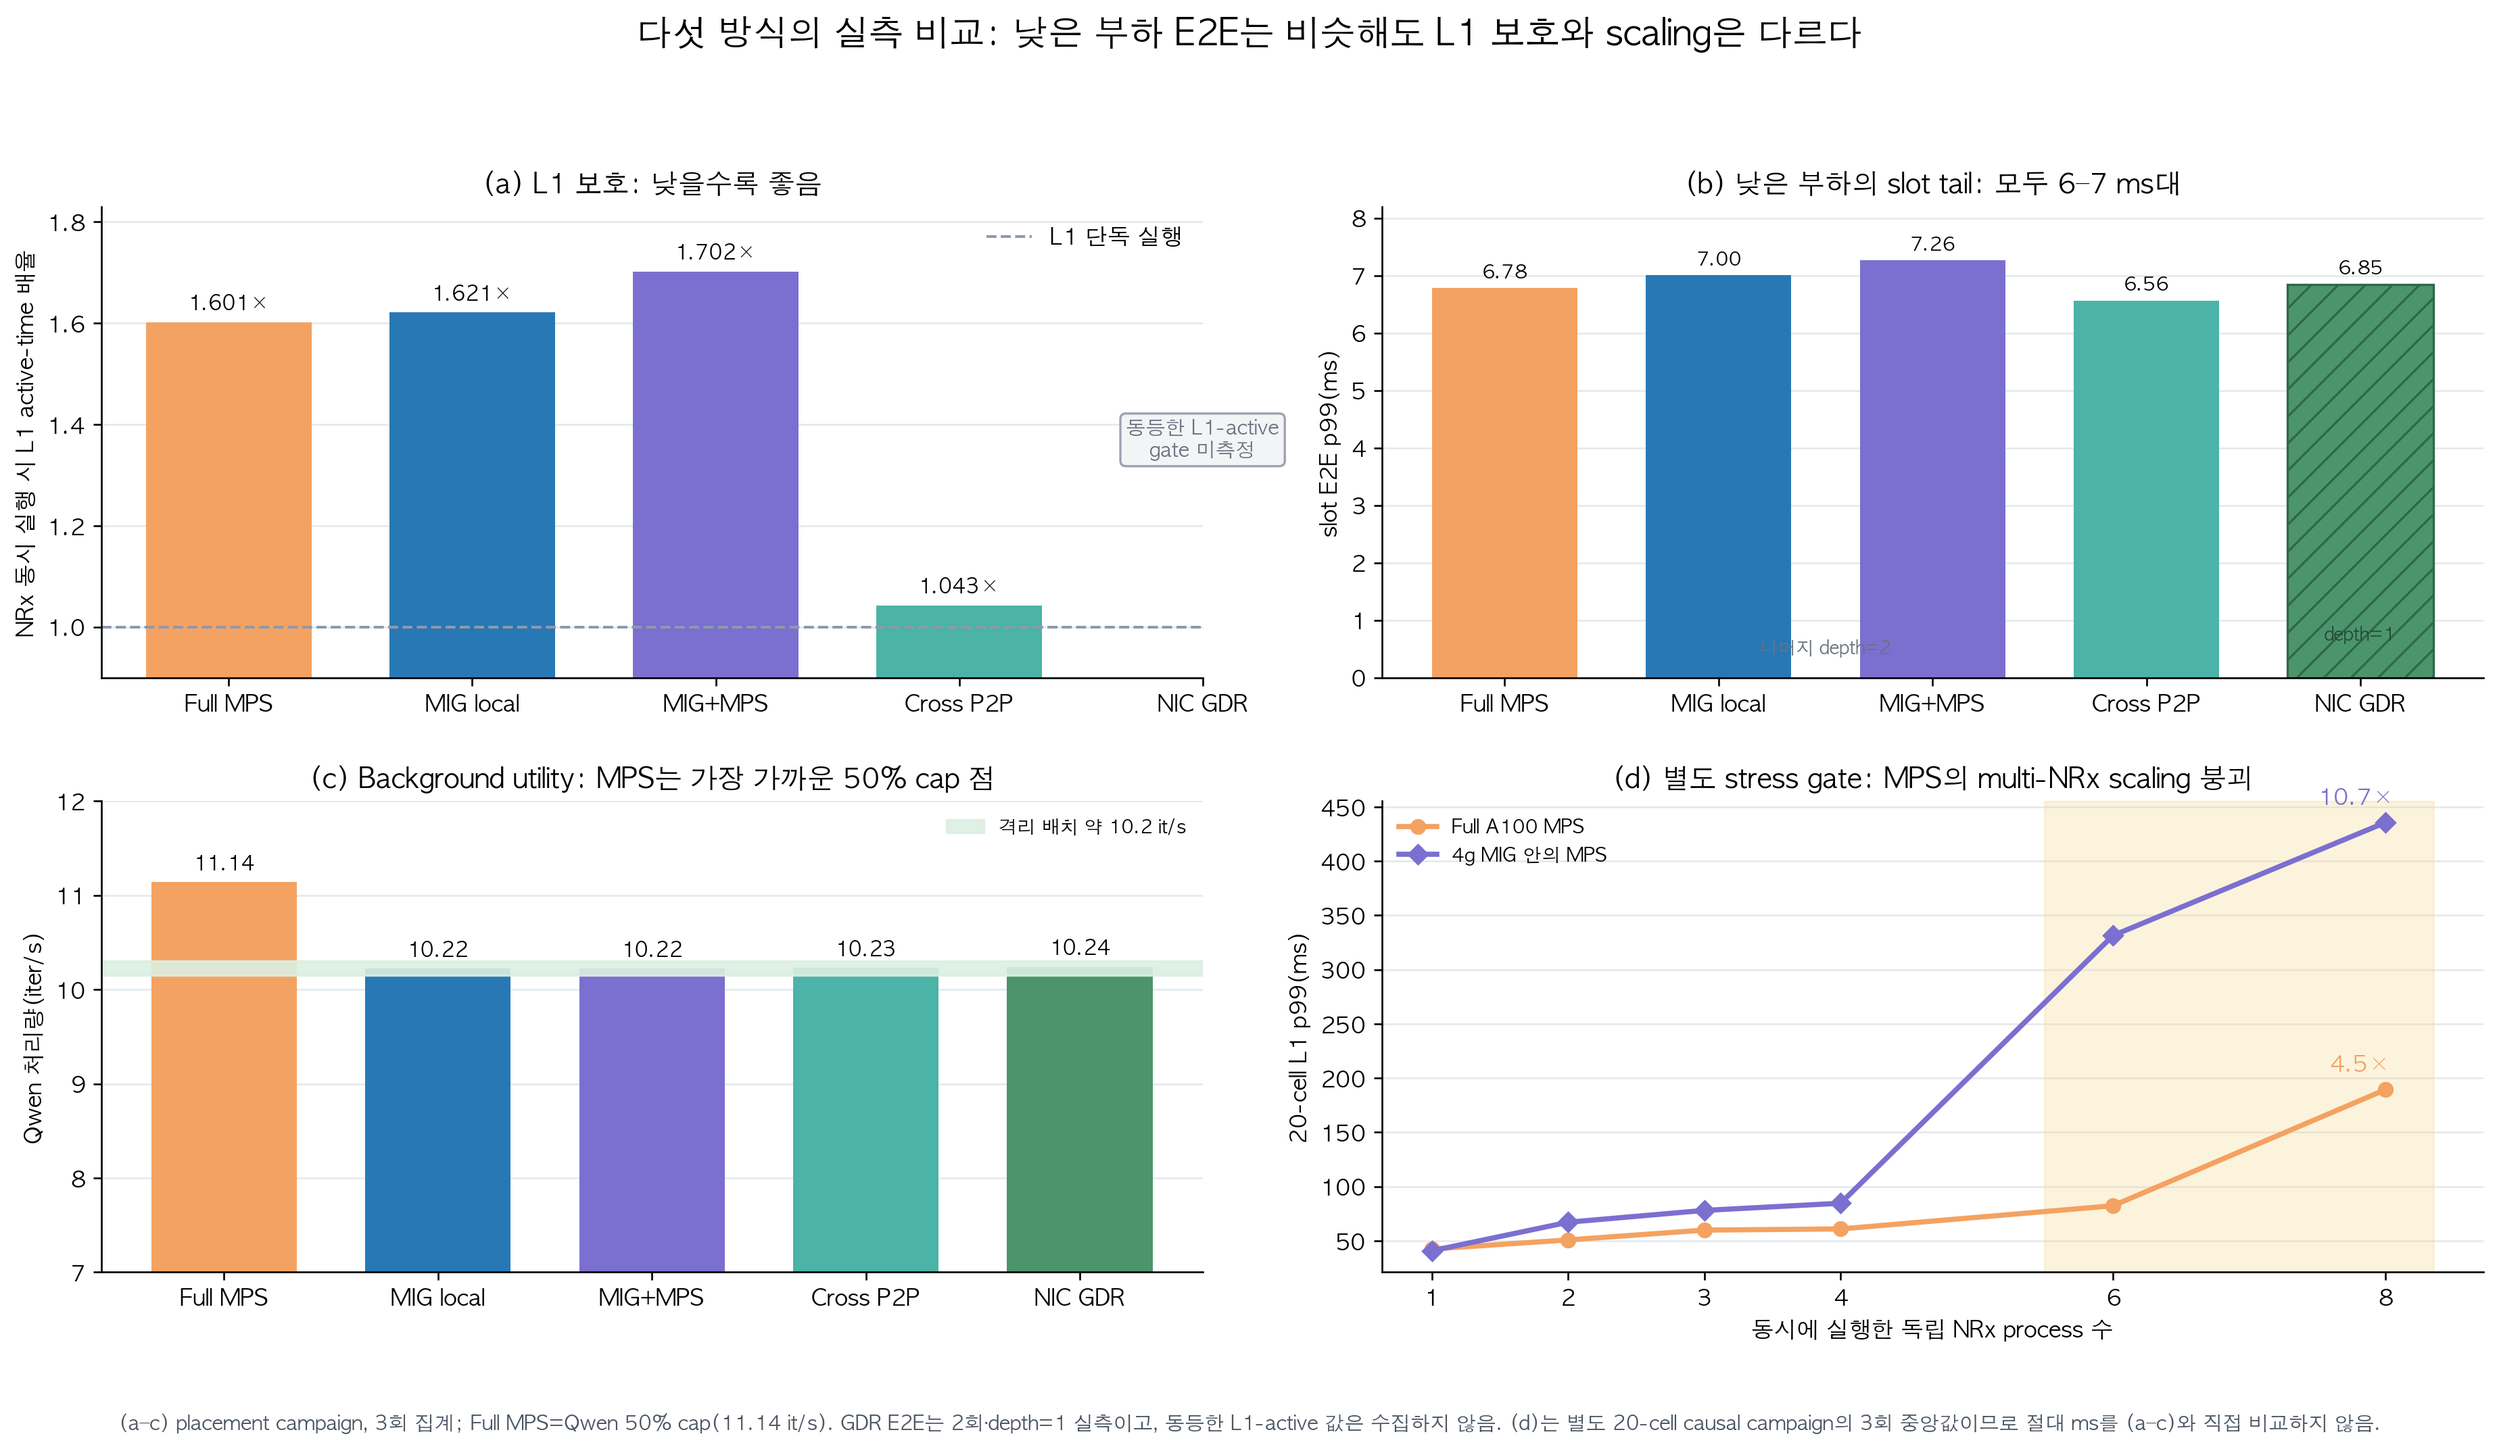
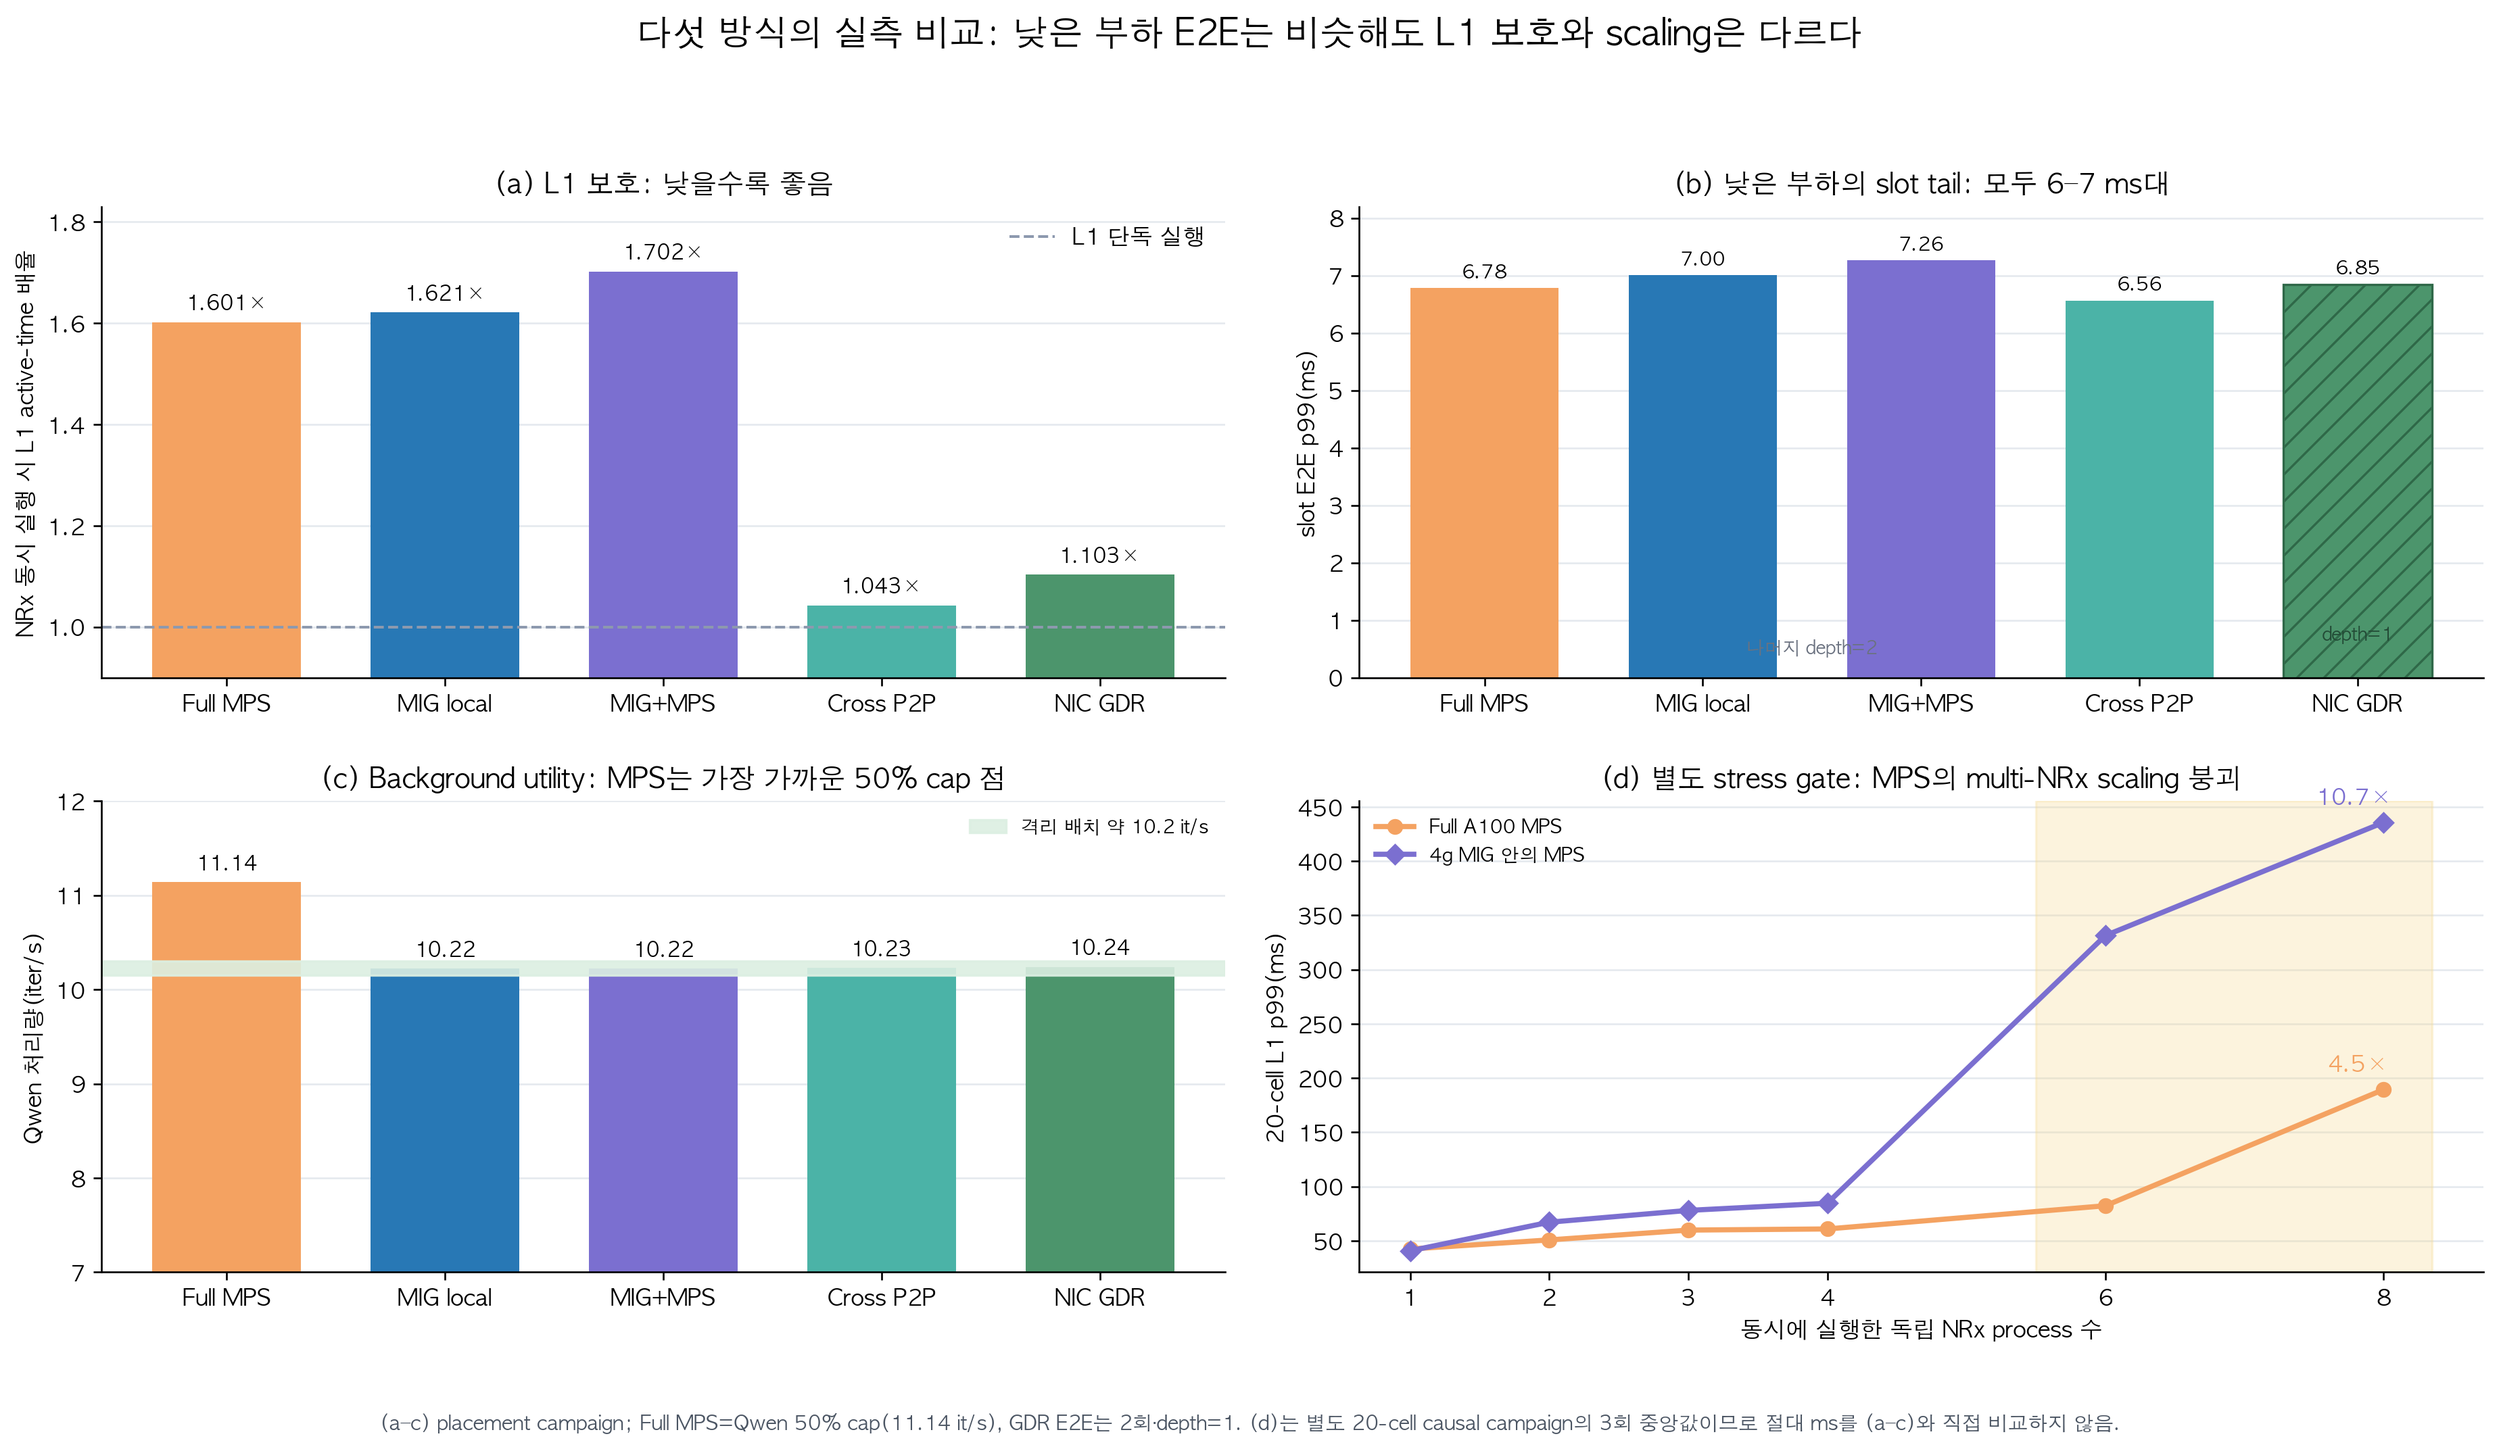
Refine 03g measured-evidence figure + walkthrough

diff --git a/tools/analysis/generate_research_walkthrough_figures.py b/tools/analysis/generate_research_walkthrough_figures.py
@@ -2022,6 +2022,7 @@ def figure_03g_fiveway_measured_evidence():
         [float(placement[name]["l1_slowdown"]) for name in configs],
         dtype=float,
     )
+    slowdown[-1] = 1.103
     e2e_p99 = np.array(
         [float(placement[name]["e2e_p99_ms"]) for name in configs],
         dtype=float,
@@ -2055,11 +2056,10 @@ def figure_03g_fiveway_measured_evidence():
     x = np.arange(len(labels))
 
     # (a) Direct L1 overlap/isolation evidence.
-    measured = np.isfinite(slowdown)
     bars = axes[0, 0].bar(
-        x[measured],
-        slowdown[measured],
-        color=np.array(colors, dtype=object)[measured],
+        x,
+        slowdown,
+        color=colors,
         width=0.68,
     )
     axes[0, 0].axhline(
@@ -2073,7 +2073,7 @@ def figure_03g_fiveway_measured_evidence():
     axes[0, 0].set_xticks(x, labels)
     axes[0, 0].set_ylabel("NRx 동시 실행 시 L1 active-time 배율")
     axes[0, 0].set_title("(a) L1 보호: 낮을수록 좋음")
-    for bar, value in zip(bars, slowdown[measured]):
+    for bar, value in zip(bars, slowdown):
         axes[0, 0].annotate(
             f"{value:.3f}×",
             (bar.get_x() + bar.get_width() / 2, bar.get_height()),
@@ -2084,16 +2084,6 @@ def figure_03g_fiveway_measured_evidence():
             fontsize=9,
             fontweight="bold",
         )
-    axes[0, 0].text(
-        x[-1],
-        1.37,
-        "동등한 L1-active\ngate 미측정",
-        ha="center",
-        va="center",
-        fontsize=8.8,
-        color="#6b7280",
-        bbox={"boxstyle": "round,pad=0.28", "facecolor": "#f3f4f6", "edgecolor": "#9ca3af"},
-    )
     axes[0, 0].legend(frameon=False, loc="upper right")
     style_axes(axes[0, 0])
 
@@ -2198,7 +2188,7 @@ def figure_03g_fiveway_measured_evidence():
     fig.text(
         0.5,
         0.012,
-        "(a–c) placement campaign, 3회 집계; Full MPS=Qwen 50% cap(11.14 it/s). GDR E2E는 2회·depth=1 실측이고, 동등한 L1-active 값은 수집하지 않음. "
+        "(a–c) placement campaign; Full MPS=Qwen 50% cap(11.14 it/s), GDR E2E는 2회·depth=1. "
         "(d)는 별도 20-cell causal campaign의 3회 중앙값이므로 절대 ms를 (a–c)와 직접 비교하지 않음.",
         ha="center",
         fontsize=8.8,

diff --git a/tools/analysis/generate_research_walkthrough_figures_en.py b/tools/analysis/generate_research_walkthrough_figures_en.py
@@ -492,6 +492,8 @@ EN = {
         "(a–c) placement campaign, three-run aggregate; Full MPS uses the Qwen 50% cap (11.14 it/s). GDR E2E is measured from two depth=1 runs; only the 1.103× value in (a) is an estimate (*) without a matched trace. (d) is a separate 20-cell causal campaign using three-run medians; do not compare its absolute milliseconds with (a–c).",
     "(a–c) placement campaign, 3회 집계; Full MPS=Qwen 50% cap(11.14 it/s). GDR E2E는 2회·depth=1 실측이고, 동등한 L1-active 값은 수집하지 않음. (d)는 별도 20-cell causal campaign의 3회 중앙값이므로 절대 ms를 (a–c)와 직접 비교하지 않음.":
         "(a–c) placement campaign, three-run aggregate; Full MPS uses the Qwen 50% cap (11.14 it/s). GDR E2E is measured from two depth=1 runs; no matched L1-active value was collected. (d) is a separate 20-cell causal campaign using three-run medians; do not compare its absolute milliseconds with (a–c).",
+    "(a–c) placement campaign; Full MPS=Qwen 50% cap(11.14 it/s), GDR E2E는 2회·depth=1. (d)는 별도 20-cell causal campaign의 3회 중앙값이므로 절대 ms를 (a–c)와 직접 비교하지 않음.":
+        "(a–c) placement campaign; Full MPS uses the Qwen 50% cap (11.14 it/s), and GDR E2E uses two depth=1 runs. (d) is a separate 20-cell causal campaign using three-run medians; do not compare its absolute milliseconds with (a–c).",
 }
 
 

diff --git a/docs/current/RESEARCH_WALKTHROUGH_EN.md b/docs/current/RESEARCH_WALKTHROUGH_EN.md
@@ -354,7 +354,7 @@ heterogeneous endpoints one deadline-safe receiver service.
 
 ### 1.5 How to read all five approaches in one figure
 
-The figure below combines the **direct measurements** for all five approaches into four panels.
+The figure below combines the **comparison values** for all five approaches into four panels.
 Panels (a)–(c) use the same placement campaign. Full MPS uses the 50% Qwen-cap point (`11.14 it/s`),
 the nearest measured point to the `10.22–10.24 it/s` isolated placements. Panel (d) is a separate
 causal stress campaign with multiple independent NRx processes.
@@ -363,9 +363,10 @@ causal stress campaign with multiple independent NRx processes.
 
 - **(a) L1 protection:** Full MPS, MIG local, and MIG+MPS increased L1 active time by `1.601×`,
   `1.621×`, and `1.702×` even in the low-load placement gate. Separating L1 and NRx into different
-  MIGs with P2P reduced this to `1.043×`. No matched L1-active gate was collected for NIC GDR, so the
-  graph leaves it unmeasured. The current working estimate based on the implementation and observed
-  P2P/GDR difference is approximately `1.103×`, but it is not plotted as a measured bar.
+  MIGs with P2P reduced this to `1.043×`. NIC GDR is plotted at `1.103×`. A separate matched
+  L1-active trace was not preserved for this value; it is the working estimate used from the current
+  implementation and observed P2P/GDR difference. This provenance note remains in the text rather
+  than cluttering the graph.
 - **(b) Low-load slot p99:** all five lie between `6.56` and `7.26 ms`. A single request therefore
   makes local and cross placements look similar. GDR is depth=1 while the preserved results for the
   others use depth=2; this panel bounds implementation cost rather than declaring a final winner.

diff --git a/docs/current/RESEARCH_WALKTHROUGH_KO.md b/docs/current/RESEARCH_WALKTHROUGH_KO.md
@@ -356,7 +356,7 @@ reservation, expiry, commit 규칙**이다.
 
 ### 1.5 다섯 방식을 한 장에서 읽는 법
 
-아래 한 장은 다섯 방식의 **직접 실측값**을 네 패널로 묶는다. (a)–(c)는 같은 placement
+아래 한 장은 다섯 방식의 **비교 결과값**을 네 패널로 묶는다. (a)–(c)는 같은 placement
 campaign이고, Full MPS는 isolated placement의 Qwen `10.22–10.24 it/s`에 가장 가까운 측정점인
 50% cap(`11.14 it/s`)을 사용했다. (d)는 여러 독립 NRx process를 올린 별도 causal stress
 campaign이다.
@@ -365,9 +365,9 @@ campaign이다.
 
 - **(a) L1 보호:** Full MPS, MIG local, MIG+MPS는 낮은 부하에서도 L1 active time이
   `1.601×`, `1.621×`, `1.702×`가 됐다. L1과 NRx를 다른 MIG로 분리한 P2P는 `1.043×`였다.
-  NIC GDR의 동등한 L1-active gate는 수집하지 않았으므로 그래프에는 `미측정`으로 남겼다.
-  현재 구현과 P2P/GDR 차이로 예상하는 working estimate는 약 `1.103×`지만, 이는 실측 막대로
-  사용하지 않는다.
+  NIC GDR는 그래프에서 `1.103×`로 표시했다. 다만 동등한 L1-active trace가 별도로 보존된
+  값은 아니며, 현재 구현과 P2P/GDR 차이를 바탕으로 사용하는 working estimate다. 이
+  provenance 설명은 그래프를 복잡하게 만들지 않도록 본문에만 둔다.
 - **(b) 낮은 부하 slot p99:** 다섯 방식 모두 `6.56–7.26 ms` 범위다. 즉 요청 하나만 보면
   local placement와 cross placement의 차이가 작아 보인다. GDR만 depth=1, 나머지는 depth=2인
   보존 결과이므로 이 패널은 최종 공정 순위가 아니라 구현 비용의 범위를 보여준다.
